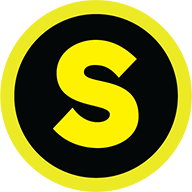
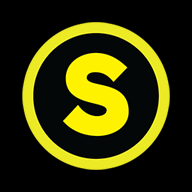
nice

diff --git a/app/[language]/contact/page.js b/app/[language]/contact/page.js
@@ -38,7 +38,7 @@ const Contact = ({ params }) => {
       <div className="p-8 flex flex-col gap-4 col-span-12 lg:col-span-6 xl:col-span-4">
         <div className="flex gap-4">
           <div className="border border-gray-900 bg-black bg-opacity-70 p-3 rounded-lg">
-            <Image src="/icon-192x192.png" width={25} height={25} alt="" />
+            <Image src="/logo.png" width={25} height={25} alt="" />
           </div>
           <div className="border border-gray-900 flex-grow text-center bg-black bg-opacity-70 p-3 rounded-lg font-geologica text-lg font-bold">Superfit Training Studio</div>
         </div>
